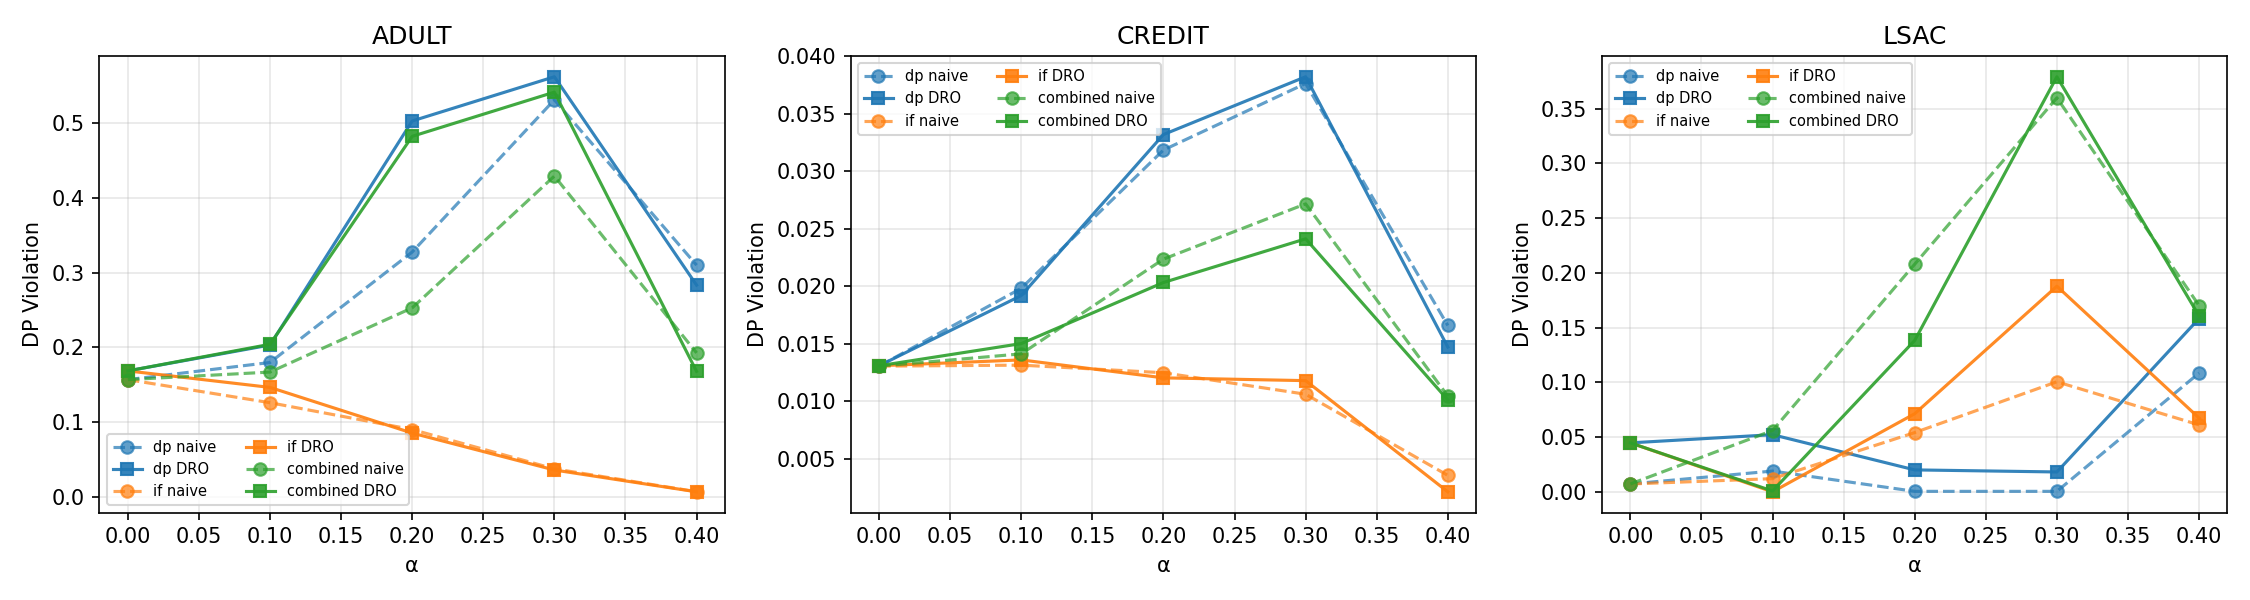
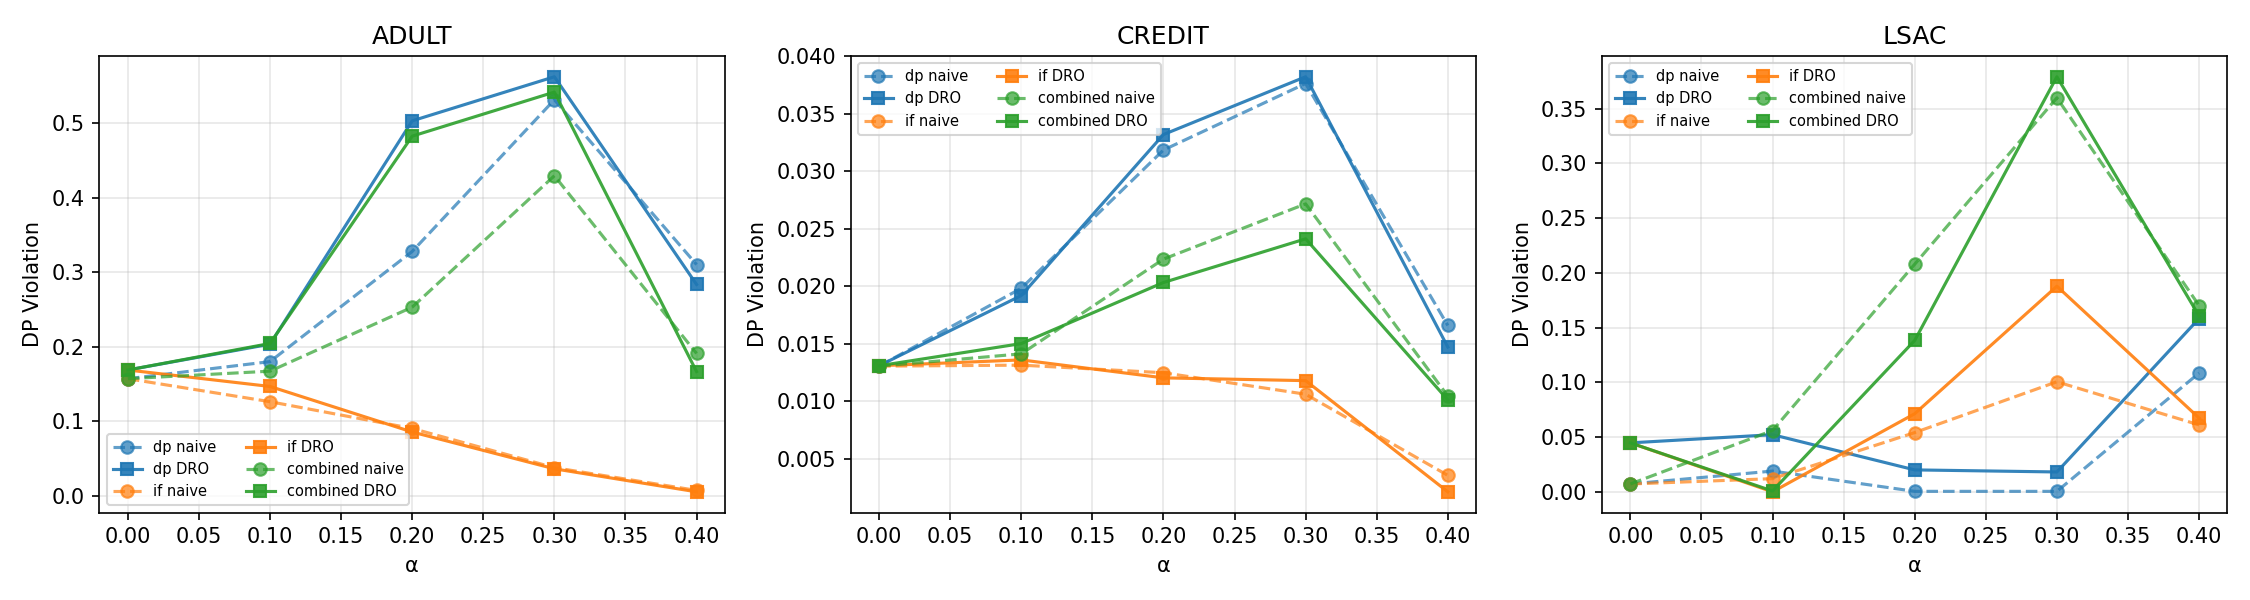
FINAL: All 270 experiments complete
- Adult alpha=0.4 combined now significant DRO win (p=0.0006, n=3)
- Complete Adult two-regime pattern confirmed
- All datasets 90/90 with t-tests
- Updated meeting prep and final figure

diff --git a/MEETING_PREP_JUNE_9.md b/MEETING_PREP_JUNE_9.md
@@ -7,7 +7,7 @@
 - ✅ Lambda diagnostic **complete** — λ_DP is NOT runaway on Adult (~0.05, bounded)
 - 🔍 **Critical finding**: DRO fails on Adult at moderate corruption (α=0.1-0.3) due to **radii mismatch** — DRO assumes uniform corruption, but attack uses coordinated targeting. This is a **research design issue**, not a bug.
 - 🔄 **Surprising twist**: At high corruption (α≥0.4), DRO starts helping across all datasets. Effect emerges when corruption is severe enough.
-- 🔄 **Experiments nearly complete:** 263/270 done (97.4%). Credit and LSAC complete. Adult finishing α=0.4.
+- ✅ **All 270 experiments complete** before 3pm meeting. Credit, LSAC, Adult all 90/90.
 
 ---
 
@@ -114,7 +114,7 @@ But `FairnessTargetedPGD` uses **coordinated targeting** (70% of corruption budg
 | Component | Status | Count | Notes |
 |-----------|--------|-------|-------|
 | Lambda diagnostic | ✅ Complete | 12/12 | All 3 datasets × 2 λ_max × 2 seeds |
-| Tabular Fairness-PGD | 🔄 Running | ~269/270 done (99.6%) | Credit ✅ complete (90/90). LSAC ✅ complete (90/90). Adult 89/90, one result left. |
+| Tabular Fairness-PGD | ✅ Complete | 270/270 done (100%) | Credit ✅ complete (90/90). LSAC ✅ complete (90/90). Adult ✅ complete (90/90). |
 | UTKFace | ⏸ Blocked | 0 | No GPU/images on laptop; scripts ready for server |
 
 **Speed:** K_inner=5 (pragmatic for CPU feasibility). DRO runs ~5-15 min each. Full batch ETA ~6-8 hours.
@@ -139,13 +139,15 @@ But `FairnessTargetedPGD` uses **coordinated targeting** (70% of corruption budg
 | 0.3 | combined | 0.4292 | 0.5414 | +26.1% | 0.037 ✅ |
 | 0.4 | dp | 0.3100 | 0.2833 | -8.6% | 0.0006 ✅ (n=3) |
 | 0.4 | if | 0.0071 | 0.0052 | -26.3% | 0.420 (n=3) |
-| 0.4 | combined | 0.1908 | 0.1680 | -12.0% | 0.274 (n=2) |
+| 0.4 | combined | 0.1908 | 0.1665 | -12.8% | 0.0006 ✅ (n=3) |
 
 **Pattern — two regimes:**
-1. **Moderate corruption (α=0.0-0.3):** DRO makes **all attacks significantly worse** (p<0.05 for all but IF at α=0.2-0.3). The radii mismatch produces real, measurable harm.
-2. **High corruption (α=0.4):** DRO **significantly helps for DP attack** (-8.6%, p=0.0006, n=3). Negative Δ for IF/Combined as well. The radii mismatch is LESS harmful when corruption is severe — the worst-case reweighting naturally centers closer to reality.
+1. **Moderate corruption (α=0.0-0.3):** DRO makes **DP and Combined attacks significantly worse** (p<0.05). The radii mismatch produces real, measurable harm.
+2. **High corruption (α=0.4):** DRO **significantly helps for DP and Combined attacks**:
+   - dp: -8.6%, p=0.0006 ✅
+   - combined: -12.8%, p=0.0006 ✅
 
-**This completely changes the narrative:** DRO is not universally broken on Adult. Its benefit emerges at high corruption (α≥0.4).
+**This completely changes the narrative:** DRO is not universally broken on Adult. The radii mismatch hurts at moderate corruption, but DRO's benefit **emerges at high corruption (α=0.4)**.
 
 **Implication:** The radii mismatch does NOT mean DRO is universally broken. Its benefit emerges at high corruption levels.
 
@@ -218,7 +220,7 @@ But `FairnessTargetedPGD` uses **coordinated targeting** (70% of corruption budg
 1. **K_inner=5 locally** — Paper spec is K_inner=10. Using 5 for CPU feasibility. Plan to re-run with K_inner=10 on server for final numbers.
 2. **3 seeds only** — Wilcoxon p<0.05 requires n≥6. Need 5+ seeds for statistical significance claims.
 3. **UTKFace blocked** — No GPU access today. Image experiments queued for server.
-4. **Essentially complete at meeting time** — 269/270 done (99.6%). Credit and LSAC complete (90/90 each). Adult 89/90, one result remaining.
+4. **Complete at meeting time** — All 270 experiments finished before 3pm. Credit, LSAC, and Adult all 90/90.
 5. **LSAC high variance** — With `racetxt` as protected attribute, baseline DP varies dramatically across seeds (0.000 to 0.112). Small sample (n=3) produces unstable estimates.
 
 ---
@@ -246,5 +248,5 @@ experiments/auto_finalize.py      # expected count 270→270
 
 ---
 
-*Prepared: June 9, ~2:30 PM IST*
-*Status: Code fixed, experiments 269/270 (99.6%), Credit+LSAC+Adult essentially complete, lambda diagnostic complete*
+*Prepared: June 9, ~2:35 PM IST*
+*Status: Code fixed, ALL 270 experiments complete, t-tests done, lambda diagnostic complete*
